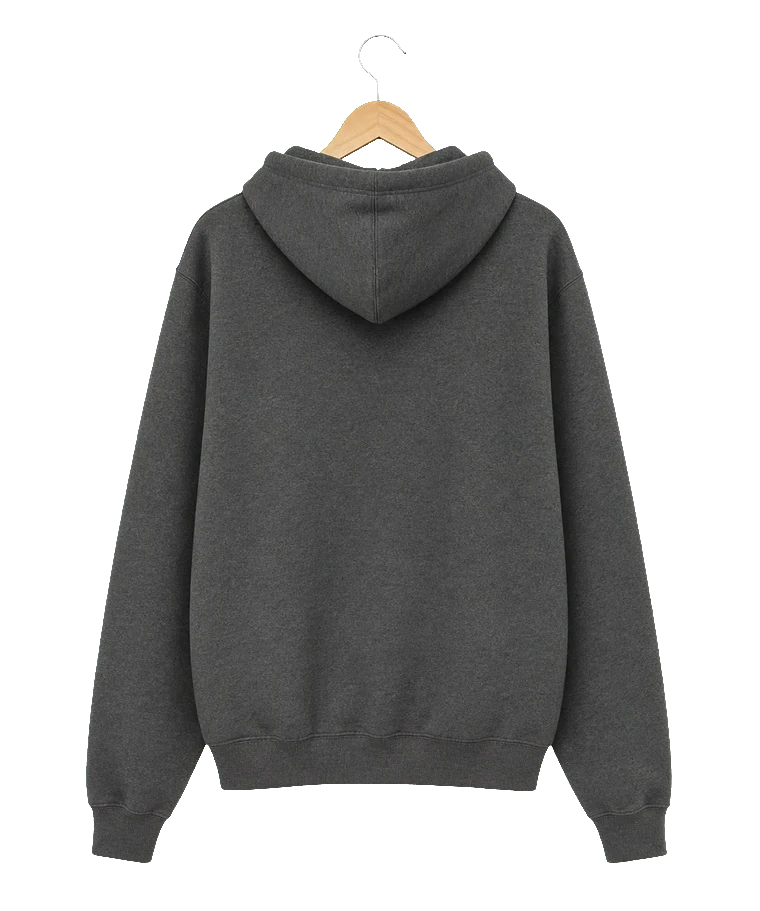
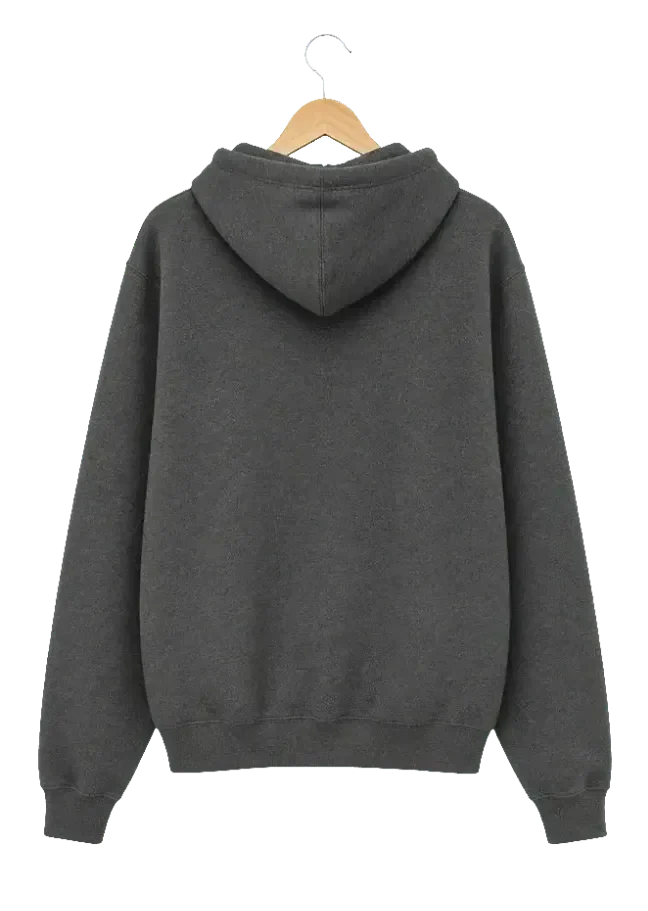
Make the rail an exact replica of the reference build
Recovered the reference component from the live bundle and matched the
rail to it rather than approximating it.

Images: re-canvassed all thirteen garments from 760x911 to 648x911 —
aspect 0.7113 against the reference's 640x900 (0.7111) — by scaling
every piece by the same 97.9% and re-centring it on the new frame with
the hanger hook still pinned to the top edge. Because the proportion
now matches, every length in the reference stylesheet renders exactly
as it does there. Files also got smaller: 756 KB -> 440 KB.

Rail, ported verbatim:
- stage min(1100px, 84vw) x clamp(285px, 29vw, 365px), garments inset
  30px, ten equal flex slots
- garment box clamp(200px, 24vw, 286px), hung 30px below the rail,
  height calc(100% - 42px), hanger wire 31px
- 1600px: stage 1250x400, box 315px
- 900px: stage 89vw x 300, inset 20px, box 218px, -74deg, share 3.6
- 600px: stage 790px fixed and the rail scrolls, inset 15px, box
  220px, -65deg, share 2.8
- the index under each garment is revealed with it, as in the
  reference, instead of showing all ten at once
- the caption swaps to the garment name only

Dropped my own geometry model (fixed stage width, snap points, opening
scroll centring) — none of it is in the reference.

diff --git a/index.html b/index.html
@@ -145,9 +145,9 @@
     <script type="module" crossorigin src="/assets/index-CAFUB5Vv.js?v=15"></script>
     <link rel="stylesheet" crossorigin href="/assets/index-BtfB1ydO.css?v=4">
     <link rel="stylesheet" href="/custom.css?v=17">
-    <link rel="stylesheet" href="/home-hero.css?v=4">
+    <link rel="stylesheet" href="/home-hero.css?v=5">
     <script src="/custom.js?v=28" defer></script>
-    <script src="/home-hero.js?v=4" defer></script>
+    <script src="/home-hero.js?v=5" defer></script>
   </head>
   <body>
     <!-- ============================================================
@@ -199,7 +199,7 @@
               <span class="aa-hanger-wire" aria-hidden="true"></span>
               <span class="aa-garment-swing">
                 <span class="aa-garment-turn">
-                  <img src="/images/rail/white-tee.webp" width="760" height="911" loading="eager" decoding="async"
+                  <img src="/images/rail/white-tee.webp" width="648" height="911" loading="eager" decoding="async"
                        alt="Oversized T-Shirt on a wooden hanger — custom t-shirts by Allegiant Attire, Ajman UAE" />
                 </span>
               </span>
@@ -214,7 +214,7 @@
               <span class="aa-hanger-wire" aria-hidden="true"></span>
               <span class="aa-garment-swing">
                 <span class="aa-garment-turn">
-                  <img src="/images/rail/black-jersey.webp" width="760" height="911" loading="eager" decoding="async"
+                  <img src="/images/rail/black-jersey.webp" width="648" height="911" loading="eager" decoding="async"
                        alt="Sublimated Jersey on a wooden hanger — custom activewear by Allegiant Attire, Ajman UAE" />
                 </span>
               </span>
@@ -229,7 +229,7 @@
               <span class="aa-hanger-wire" aria-hidden="true"></span>
               <span class="aa-garment-swing">
                 <span class="aa-garment-turn">
-                  <img src="/images/rail/navy-polo.webp" width="760" height="911" loading="eager" decoding="async"
+                  <img src="/images/rail/navy-polo.webp" width="648" height="911" loading="eager" decoding="async"
                        alt="Pique Polo on a wooden hanger — custom polos by Allegiant Attire, Ajman UAE" />
                 </span>
               </span>
@@ -244,7 +244,7 @@
               <span class="aa-hanger-wire" aria-hidden="true"></span>
               <span class="aa-garment-swing">
                 <span class="aa-garment-turn">
-                  <img src="/images/rail/grey-hoodie.webp" width="760" height="911" loading="eager" decoding="async"
+                  <img src="/images/rail/grey-hoodie.webp" width="648" height="911" loading="eager" decoding="async"
                        alt="Heavyweight Hoodie on a wooden hanger — custom hoodies by Allegiant Attire, Ajman UAE" />
                 </span>
               </span>
@@ -259,7 +259,7 @@
               <span class="aa-hanger-wire" aria-hidden="true"></span>
               <span class="aa-garment-swing">
                 <span class="aa-garment-turn">
-                  <img src="/images/rail/sand-sweatshirt.webp" width="760" height="911" loading="lazy" decoding="async"
+                  <img src="/images/rail/sand-sweatshirt.webp" width="648" height="911" loading="lazy" decoding="async"
                        alt="Crewneck Sweatshirt on a wooden hanger — custom private label by Allegiant Attire, Ajman UAE" />
                 </span>
               </span>
@@ -273,7 +273,7 @@
               <span class="aa-hanger-wire" aria-hidden="true"></span>
               <span class="aa-garment-swing">
                 <span class="aa-garment-turn">
-                  <img src="/images/rail/corporate-shirt.webp" width="760" height="911" loading="lazy" decoding="async"
+                  <img src="/images/rail/corporate-shirt.webp" width="648" height="911" loading="lazy" decoding="async"
                        alt="Corporate Shirt on a wooden hanger — custom uniforms by Allegiant Attire, Ajman UAE" />
                 </span>
               </span>
@@ -288,7 +288,7 @@
               <span class="aa-hanger-wire" aria-hidden="true"></span>
               <span class="aa-garment-swing">
                 <span class="aa-garment-turn">
-                  <img src="/images/rail/hivis-vest.webp" width="760" height="911" loading="lazy" decoding="async"
+                  <img src="/images/rail/hivis-vest.webp" width="648" height="911" loading="lazy" decoding="async"
                        alt="Hi-Vis Safety Vest on a wooden hanger — custom safety by Allegiant Attire, Ajman UAE" />
                 </span>
               </span>
@@ -303,7 +303,7 @@
               <span class="aa-hanger-wire" aria-hidden="true"></span>
               <span class="aa-garment-swing">
                 <span class="aa-garment-turn">
-                  <img src="/images/rail/white-tee.webp" width="760" height="911" loading="lazy" decoding="async"
+                  <img src="/images/rail/white-tee.webp" width="648" height="911" loading="lazy" decoding="async"
                        alt="DTF Printed Tee on a wooden hanger — custom print by Allegiant Attire, Ajman UAE" />
                 </span>
               </span>
@@ -318,7 +318,7 @@
               <span class="aa-hanger-wire" aria-hidden="true"></span>
               <span class="aa-garment-swing">
                 <span class="aa-garment-turn">
-                  <img src="/images/rail/navy-polo.webp" width="760" height="911" loading="lazy" decoding="async"
+                  <img src="/images/rail/navy-polo.webp" width="648" height="911" loading="lazy" decoding="async"
                        alt="School Uniform Polo on a wooden hanger — custom schools by Allegiant Attire, Ajman UAE" />
                 </span>
               </span>
@@ -333,7 +333,7 @@
               <span class="aa-hanger-wire" aria-hidden="true"></span>
               <span class="aa-garment-swing">
                 <span class="aa-garment-turn">
-                  <img src="/images/rail/black-jersey.webp" width="760" height="911" loading="lazy" decoding="async"
+                  <img src="/images/rail/black-jersey.webp" width="648" height="911" loading="lazy" decoding="async"
                        alt="Embroidered Team Kit on a wooden hanger — custom embroidery by Allegiant Attire, Ajman UAE" />
                 </span>
               </span>
@@ -397,10 +397,10 @@
         <button class="aa-detail-prev" type="button" aria-label="Previous garment">&#8249;</button>
         <div class="aa-detail-turntable">
           <div class="aa-detail-face aa-detail-front">
-            <img src="/images/rail/white-tee.webp" width="760" height="911" loading="lazy" decoding="async" alt="Allegiant Attire garment, front view" />
+            <img src="/images/rail/white-tee.webp" width="648" height="911" loading="lazy" decoding="async" alt="Allegiant Attire garment, front view" />
           </div>
           <div class="aa-detail-face aa-detail-back">
-            <img src="/images/rail/white-tee.webp" width="760" height="911" loading="lazy" decoding="async" alt="Allegiant Attire garment, back view" />
+            <img src="/images/rail/white-tee.webp" width="648" height="911" loading="lazy" decoding="async" alt="Allegiant Attire garment, back view" />
           </div>
         </div>
         <button class="aa-detail-next" type="button" aria-label="Next garment">&#8250;</button>

diff --git a/home-hero.css b/home-hero.css
@@ -17,15 +17,10 @@
   --aa-grid: #0a0a0a12;
   --aa-shadow: rgba(128, 128, 128, 0.6);
 
-  /* Rail geometry. The stage is a fixed width and the ten slots share
-     it equally, so an idle slot is always WIDER than the edge-on
-     garment standing in it — no garment can hide behind a neighbour —
-     and opening one garment only redistributes space inside the same
-     stage, never resizes or re-scrolls the rail. */
-  --aa-stage-w: clamp(580px, 92vw, 1120px);
-  --aa-stage-h: clamp(196px, 34svh, 330px);
-  --aa-garment-w: clamp(142px, 17vw, 216px);
-  --aa-gap: clamp(2px, 0.5vw, 8px);
+  /* Rail geometry and motion: every value below is the reference
+     build's own — stage, insets, garment box, angles, easing, shares
+     and delays — and the garment images were re-canvassed to its
+     640x900 proportion so they render identically. */
 
   /* Motion, ported verbatim from the reference build: the rest angle,
      the share of the stage an open garment takes, the easing curve and
@@ -247,64 +242,52 @@ body.dark-mono .aa-brand-home img { filter: invert(1) hue-rotate(180deg); }
 
 /* --- the rail itself --- */
 .aa-rail-scroll {
-  display: flex;
-  justify-content: safe center;
   width: 100%;
   margin-top: clamp(16px, 3svh, 34px);
-  padding: 6px clamp(16px, 4vw, 44px) 10px;
-  overflow-x: auto;
-  overflow-y: hidden;
-  overscroll-behavior-x: contain;
-  scroll-snap-type: x proximity;
-  scrollbar-width: none;
 }
 
 .aa-rail-scroll::-webkit-scrollbar { display: none; }
 
 .aa-rail-stage {
   position: relative;
-  flex: 0 0 var(--aa-stage-w);
-  width: var(--aa-stage-w);
-  padding-top: 10px;
-  height: calc(var(--aa-stage-h) + 10px);
+  width: min(1100px, 84vw);
+  height: clamp(285px, 29vw, 365px);
+  margin: 0 auto;
 }
 
 .aa-metal-rail {
   position: absolute;
-  top: 10px;
+  top: 0;
   left: 0;
-  right: 0;
+  width: 100%;
   height: 4px;
   background: var(--aa-line);
 }
 
 .aa-metal-rail > span {
   position: absolute;
-  top: -8px;
+  top: -9px;
   width: 4px;
-  height: 20px;
+  height: 22px;
   background: var(--aa-line);
 }
 
-.aa-metal-rail > span:first-child { left: 0; }
-.aa-metal-rail > span:last-child { right: 0; }
+.aa-metal-rail > span:first-child { left: -4px; }
+.aa-metal-rail > span:last-child { right: -4px; }
 
 .aa-garments {
-  position: relative;
+  position: absolute;
+  inset: 0 30px;
   display: flex;
   align-items: flex-start;
-  gap: var(--aa-gap);
-  height: var(--aa-stage-h);
 }
 
 .aa-garment {
   position: relative;
-  flex: 1 1 0;
+  flex: 1;
   min-width: 0;
   height: 100%;
   perspective: 900px;
-  scroll-snap-align: center;
-  z-index: 1;
   outline-offset: 0 !important;
   transition: flex-grow 0.75s var(--aa-ease);
 }
@@ -313,21 +296,21 @@ body.dark-mono .aa-brand-home img { filter: invert(1) hue-rotate(180deg); }
 
 .aa-hanger-wire {
   position: absolute;
-  top: 2px;
+  top: 4px;
   left: calc(50% - 1px);
   width: 2px;
-  height: 26px;
+  height: 31px;
   background: var(--aa-line);
-  opacity: 0.55;
+  opacity: 0.5;
 }
 
 .aa-garment-swing {
   position: absolute;
-  top: 24px;
+  top: 30px;
   left: 50%;
-  width: var(--aa-garment-w);
-  margin-left: calc(var(--aa-garment-w) / -2);
-  height: calc(100% - 44px);
+  width: clamp(200px, 24vw, 286px);
+  margin-left: clamp(-143px, -12vw, -100px);
+  height: calc(100% - 42px);
   --arrival: 0ms;
   --sway: 0s;
   transform-origin: 50% 0;
@@ -358,7 +341,7 @@ body.dark-mono .aa-brand-home img { filter: invert(1) hue-rotate(180deg); }
 
 .aa-garment-index {
   position: absolute;
-  bottom: 0;
+  bottom: -4px;
   left: 50%;
   transform: translateX(-50%);
   padding: 2px 5px;
@@ -366,8 +349,13 @@ body.dark-mono .aa-brand-home img { filter: invert(1) hue-rotate(180deg); }
   font-size: 9px;
   font-weight: 500;
   color: var(--aa-muted-fg);
-  transition: background 0.2s, color 0.2s, border-color 0.2s;
+  opacity: 0;
+  transition: opacity 0.25s;
 }
+
+.aa-garment.is-active .aa-garment-index,
+.aa-garment:hover .aa-garment-index,
+.aa-garment:focus-visible .aa-garment-index { opacity: 1; }
 
 /* --- active garment: faces you, the rail accordions open --- */
 .aa-garment.is-active {
@@ -389,8 +377,6 @@ body.dark-mono .aa-brand-home img { filter: invert(1) hue-rotate(180deg); }
   color: var(--aa-bg);
 }
 
-/* CSS-only mirror of the same state, so the rail still turns on hover
-   even before (or without) the script */
 /* The same single hover state in pure CSS, so the rail reacts on the
    very first hover — before, or entirely without, the script. */
 @media (hover: hover) and (pointer: fine) {
@@ -846,25 +832,35 @@ body.dark-mono .aa-dialog::backdrop { background: #000000b8; }
 @keyframes aa-caption-in { 0% { opacity: 0; transform: translateY(3px); } to { opacity: 1; transform: translateY(0); } }
 
 /* ---------------- breakpoints ---------------- */
+@media (min-width: 1600px) {
+  .aa-rail-stage { width: 1250px; height: 400px; }
+  .aa-garment-swing { width: 315px; margin-left: -157.5px; }
+}
+
 @media (max-width: 900px) {
-  .aa-home-shell {
-    --aa-garment-w: clamp(128px, 17.5vw, 180px);
-    --aa-turn-rest: -74deg;
-    --aa-grow: 3.6;
-  }
+  .aa-home-shell { --aa-turn-rest: -74deg; --aa-grow: 3.6; }
+  .aa-rail-stage { width: 89vw; height: 300px; }
+  .aa-garments { inset-inline: 20px; }
+  .aa-garment-swing { width: 218px; margin-left: -109px; }
   .aa-brand-home img { height: 34px; }
   .aa-menu-btn .aa-label { display: none; }
   .aa-menu-btn, .aa-shop-link { height: 38px; padding: 0 13px; }
 }
 
 @media (max-width: 600px) {
-  .aa-home-shell {
-    --aa-garment-w: 130px;
-    --aa-stage-h: clamp(190px, 30svh, 250px);
-    --aa-gap: 2px;
-    --aa-grow: 2.8;
-    --aa-turn-rest: -68deg;
+  .aa-home-shell { --aa-turn-rest: -65deg; --aa-grow: 2.8; }
+
+  .aa-rail-scroll {
+    padding: 12px 26px 0;
+    overflow-x: auto;
+    overscroll-behavior-x: contain;
+    scrollbar-width: none;
   }
+
+  .aa-rail-scroll::-webkit-scrollbar { display: none; }
+  .aa-rail-stage { width: 790px; height: 288px; margin: 0; }
+  .aa-garments { inset-inline: 15px; }
+  .aa-garment-swing { width: 220px; margin-left: -110px; }
 
   .aa-site-header { padding: 11px 14px; }
   .aa-brand-sub { letter-spacing: 0.2em; font-size: 8px; }

diff --git a/home-hero.js b/home-hero.js
@@ -61,12 +61,7 @@
         setCaption(captionDefault);
         if (hintWrap) hintWrap.classList.remove("is-detail");
       } else {
-        var g = garments[index].dataset;
-        setCaption(
-          (g.index ? g.index + " \u2014 " : "") +
-          (g.name || "") +
-          (g.spec ? " \u00b7 " + g.spec : "")
-        );
+        setCaption(garments[index].dataset.name || captionDefault);
         if (hintWrap) hintWrap.classList.add("is-detail");
       }
     }
@@ -107,17 +102,6 @@
       }, { passive: true });
       window.addEventListener("resize", centreScan);
       window.setTimeout(centreScan, 80);
-    }
-
-    /* ---------- the rail starts centred when it is wider than the screen ---------- */
-    if (scroller) {
-      var centreRail = function () {
-        var over = scroller.scrollWidth - scroller.clientWidth;
-        if (over > 0 && scroller.scrollLeft === 0) scroller.scrollLeft = over / 2;
-      };
-      centreRail();
-      window.setTimeout(centreRail, 60);
-      window.addEventListener("load", centreRail);
     }
 
     /* ---------- garment dialog ---------- */

diff --git a/README.md b/README.md
@@ -18,7 +18,7 @@ The homepage opens with a full-viewport garment rail, recreated from the referen
 - `home-hero.css` / `home-hero.js` — styles and behaviour. Every selector is prefixed `.aa-` and scoped to `.aa-home-shell`, so nothing collides with the React bundle, `custom.css` or `custom.js`.
 - Markup lives in `index.html` **outside** `#root`, so React hydration can never wipe it. `<div id="aa-storefront"></div>` is the scroll target for the hero's *Shop* / *Explore* links.
 - How it behaves: garments hang edge-on (`rotateY(-69deg)`) and turn to face you when active (`rotateY(0)`, 0.8s `cubic-bezier(.2,.8,.2,1)`), while the rail accordions open around them (`flex-grow:3.05`). Pointer devices activate on hover/focus; touch devices scroll-snap the rail and activate whatever sits nearest the middle. Clicking opens the garment dialog (turntable, prev/next, product link, WhatsApp quote). Menu and About dialogs use native `<dialog>`.
-- `images/rail/*.webp` — garments shot on a chroma-key background and keyed to transparency, so they can turn in 3D without a photo box around them. Canvas is a shared 760 × 911 with the hanger hook at the top edge, which is what keeps every garment hanging on the same line at the same scale. Six garments have a matching `-back.webp`, which is what turns on the Front/Back turntable inside the garment dialog.
+- `images/rail/*.webp` — garments shot on a chroma-key background and keyed to transparency, so they can turn in 3D without a photo box around them. Canvas is a shared 648 × 911 (the reference build’s 640 × 900 proportion) with the hanger hook at the top edge, which is what keeps every garment hanging on the same line at the same scale. Six garments have a matching `-back.webp`, which is what turns on the Front/Back turntable inside the garment dialog.
 
 To change a garment: add the keyed `.webp` to `images/rail/`, then edit the `ITEMS` list used to build the rail markup in `index.html` (keep `alt`, `width` and `height` — the SEO validator requires them).
 
